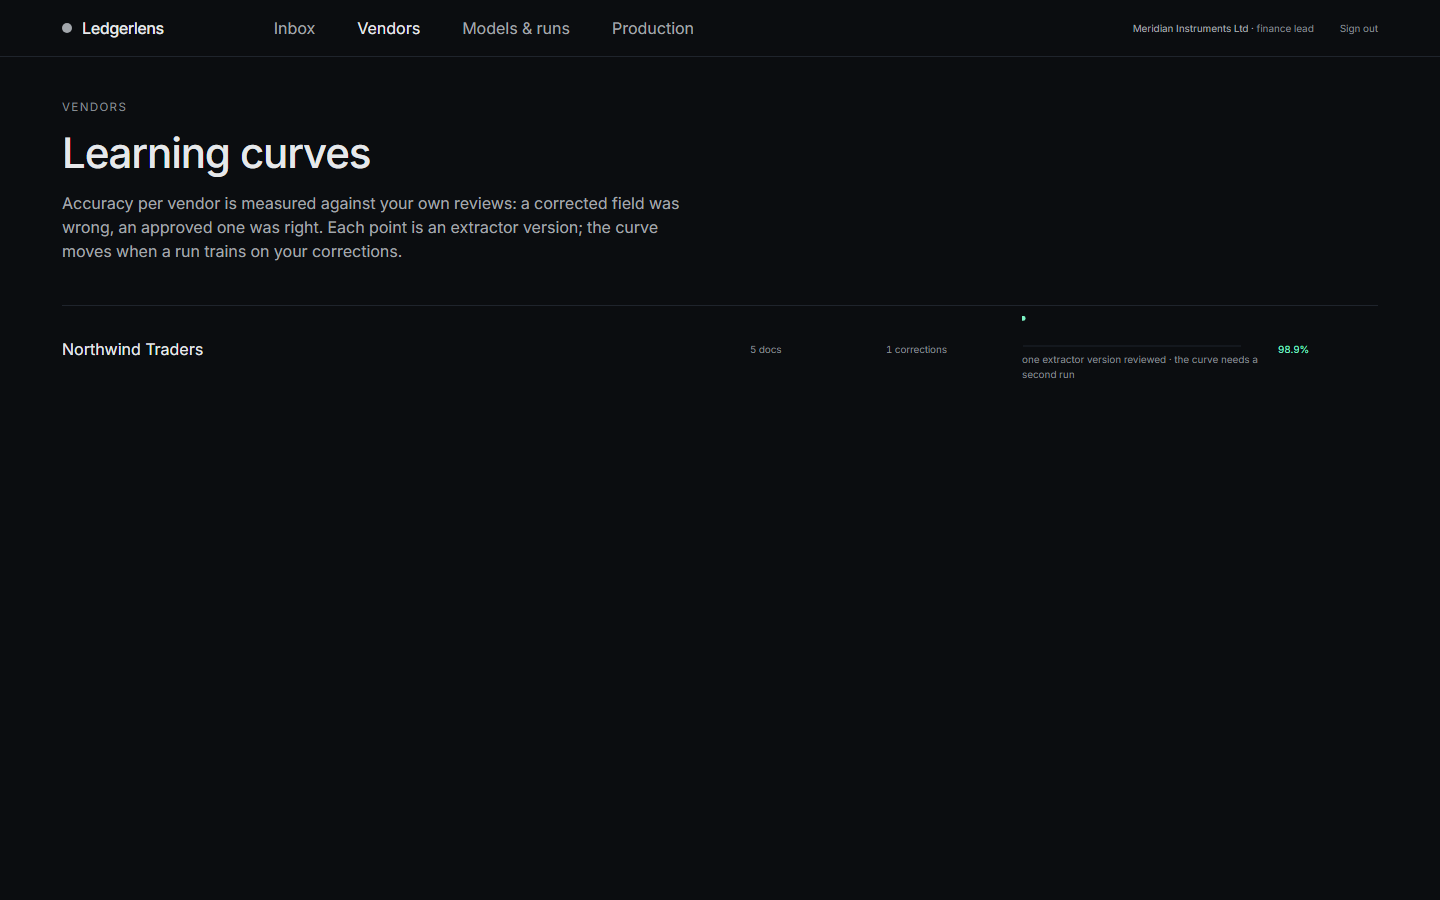
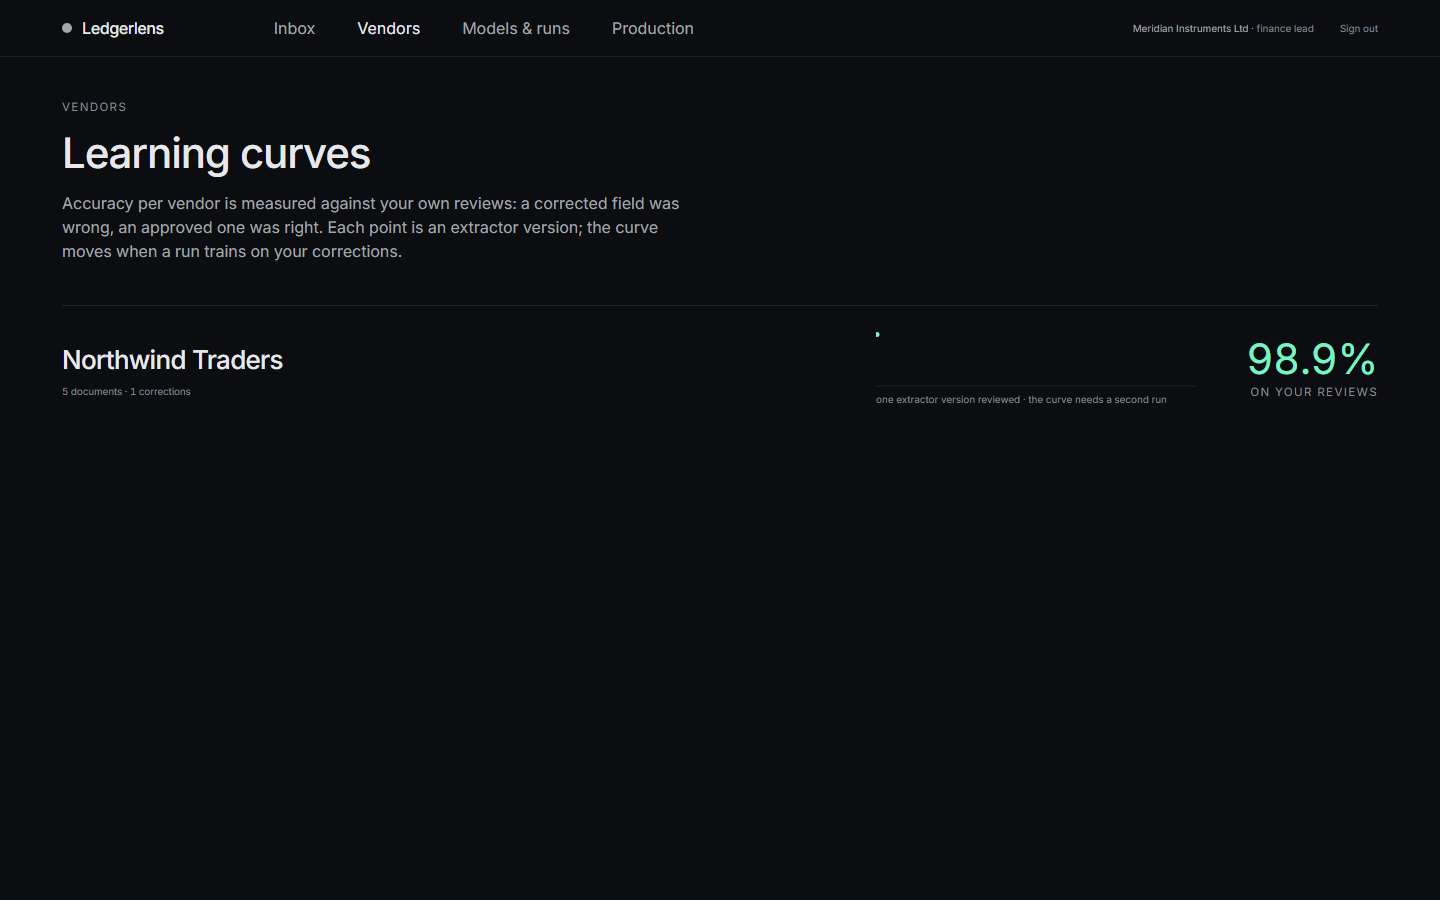
feat(web): vendors row leads with the vendor and its accuracy at display size over a 0-1 curve; model detail says 'Nothing measured yet' for a version with no training summary or evaluation instead of a blank page
Claude-Session: https://claude.ai/code/session_01B6u4L5DX7iK4uWMVRPSbzu

Changed region(s): [[0.625, 0.3733, 0.9688, 0.4667], [0.0312, 0.3733, 0.1875, 0.4356], [0.625, 0.3733, 0.6562, 0.4044]]

diff --git a/apps/web/src/app/(app)/vendors/page.tsx b/apps/web/src/app/(app)/vendors/page.tsx
@@ -29,20 +29,26 @@ export default async function VendorsPage() {
           {vendors.items.map((v) => {
             const last = v.curve[v.curve.length - 1];
             return (
-              <li key={v.id} data-testid="vendor-row" className="grid items-center gap-4 py-3 md:grid-cols-[1fr_120px_120px_240px_100px]">
-                <span className="text-step-0 text-ink">{v.name}</span>
-                <span className="readout text-step--1 text-ink-3">{v.documents} docs</span>
-                <span className="readout text-step--1 text-ink-3">{v.corrections} corrections</span>
+              <li key={v.id} data-testid="vendor-row" className="grid items-center gap-6 py-5 md:grid-cols-[1fr_320px_140px]">
+                <span>
+                  <span className="block text-step-1 font-medium tracking-tight text-ink">{v.name}</span>
+                  <span className="readout mt-1 block text-step--1 text-ink-3">
+                    {v.documents} documents · {v.corrections} corrections
+                  </span>
+                </span>
                 <span className="flex flex-col gap-1">
-                  <Sparkline values={v.curve.map((c) => c.accuracy ?? 0)} width={220} height={32} scale="unit" />
+                  <Sparkline values={v.curve.map((c) => c.accuracy ?? 0)} width={320} height={56} scale="unit" />
                   <span className="text-step--1 text-ink-3">
                     {v.curve.length === 1
                       ? "one extractor version reviewed · the curve needs a second run"
                       : `${v.curve.length} extractor versions`}
                   </span>
                 </span>
-                <span className={`readout text-step--1 ${(last?.accuracy ?? 0) >= 0.9 ? "text-signal" : "text-caution"}`}>
-                  {last?.accuracy != null ? pct(last.accuracy, 1) : "—"}
+                <span className="text-right">
+                  <span className={`readout block text-step-2 leading-none ${(last?.accuracy ?? 0) >= 0.9 ? "text-signal" : "text-caution"}`}>
+                    {last?.accuracy != null ? pct(last.accuracy, 1) : "—"}
+                  </span>
+                  <span className="micro mt-1 block">on your reviews</span>
                 </span>
               </li>
             );

diff --git a/apps/web/src/app/(app)/models/[id]/page.tsx b/apps/web/src/app/(app)/models/[id]/page.tsx
@@ -1,6 +1,7 @@
 import Link from "next/link";
 import { notFound } from "next/navigation";
 import { CoverageCurve, ReliabilityDiagram, Sparkline } from "@/components/charts";
+import { EmptyState } from "@/components/empty-state";
 import { PinButton } from "@/components/pin-button";
 import { api, ApiError } from "@/lib/api";
 import { pct, relTime } from "@/lib/format";
@@ -37,6 +38,14 @@ export default async function ModelDetailPage(props: PageProps<"/models/[id]">) 
         </div>
         <PinButton modelId={m.id} pinned={m.pinned} kind={m.kind} />
       </div>
+
+      {!ev && !train && curve.length === 0 && typeof m.metrics.ece_after !== "number" ? (
+        <EmptyState title="Nothing measured yet.">
+          This version has no training summary and no evaluation on record — a run that stopped
+          before its first checkpoint, or one still going. The job that produced it says why on
+          the Models &amp; runs page; an evaluation appears here the moment one is written.
+        </EmptyState>
+      ) : null}
 
       {ev ? (
         <section className="grid gap-6 md:grid-cols-4">
